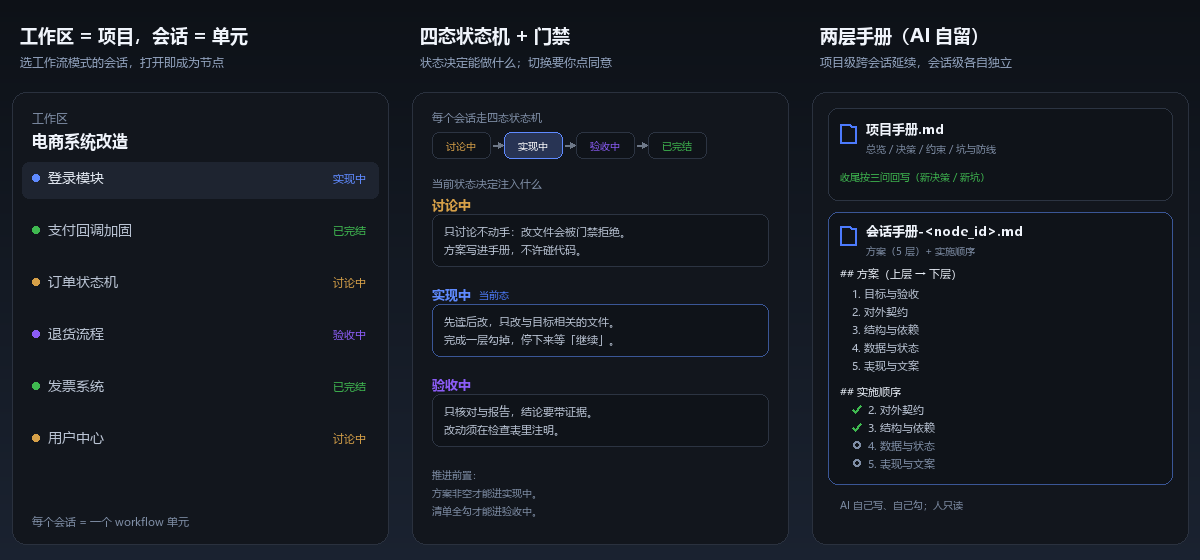
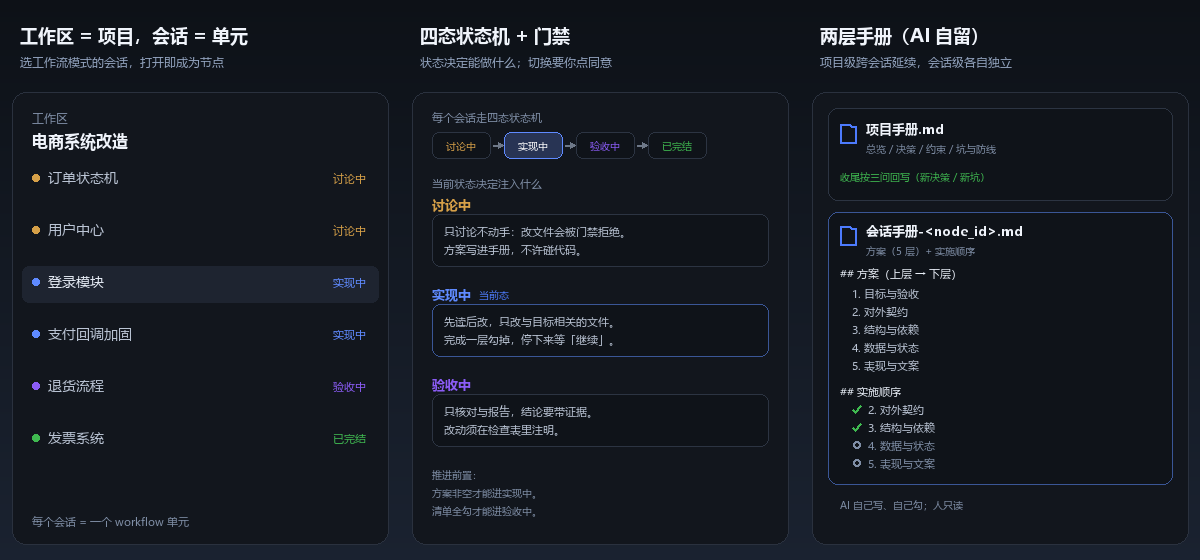
docs(cover): 会话列表按状态分组排序（2 讨论 / 2 实现 / 1 验收 / 1 完结）

diff --git a/scripts/make-cover.py b/scripts/make-cover.py
@@ -83,13 +83,14 @@ def build_sessions():
     d.text((32, PANEL_TOP + 18), "工作区", font=small, fill=TEXT_MUTED)
     d.text((32, PANEL_TOP + 38), "电商系统改造", font=proj, fill=TEXT_PRIMARY)
 
+    # 按状态从前往后排：两个讨论中、两个实现中、一个验收中、一个已完结。
     rows = [
-        ("登录模块", "实现中", STATE_BRAND, True),
-        ("支付回调加固", "已完结", STATE_SUCCESS, False),
         ("订单状态机", "讨论中", STATE_WARN, False),
+        ("用户中心", "讨论中", STATE_WARN, False),
+        ("登录模块", "实现中", STATE_BRAND, True),
+        ("支付回调加固", "实现中", STATE_BRAND, False),
         ("退货流程", "验收中", STATE_VERIFY, False),
         ("发票系统", "已完结", STATE_SUCCESS, False),
-        ("用户中心", "讨论中", STATE_WARN, False),
     ]
     y = PANEL_TOP + 76
     for title, state, color, selected in rows:
